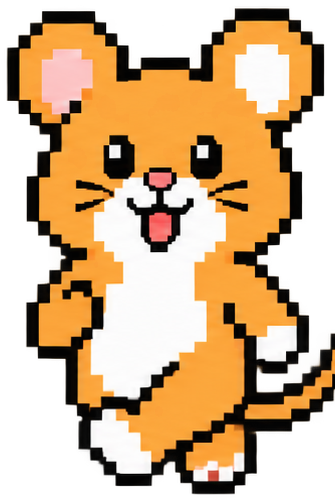
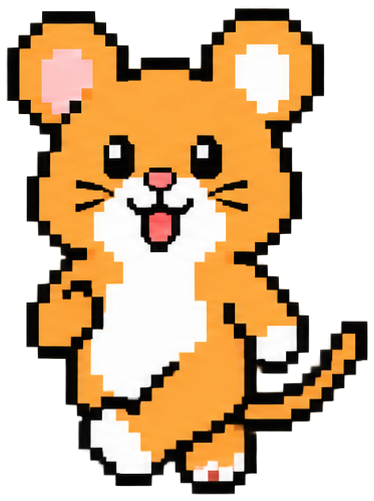
Fix mouse frame 3/4 overlap with a y-band-aware split, shrink crown
The tail (frame 3) and wave motion lines (frame 4) share overlapping
x-ranges in the source sheet but at different heights, so a single
vertical split always leaked one into the other. Classify pixels per
row band instead: the tail's own y-range goes fully to frame 3, the
ear/motion-line y-range splits at x=1200, giving both frames clean,
complete artwork. Also renders crown frames at 60% height so it doesn't
dominate the hero banner next to the tiger and mouse.

diff --git a/wwwroot/css/app.css b/wwwroot/css/app.css
@@ -455,6 +455,10 @@ code {
         image-rendering: pixelated;
     }
 
+    .mascot-sprite img.mascot-crown {
+        height: 60%;
+    }
+
 .sparkle {
     position: absolute;
     color: #ffb703;
